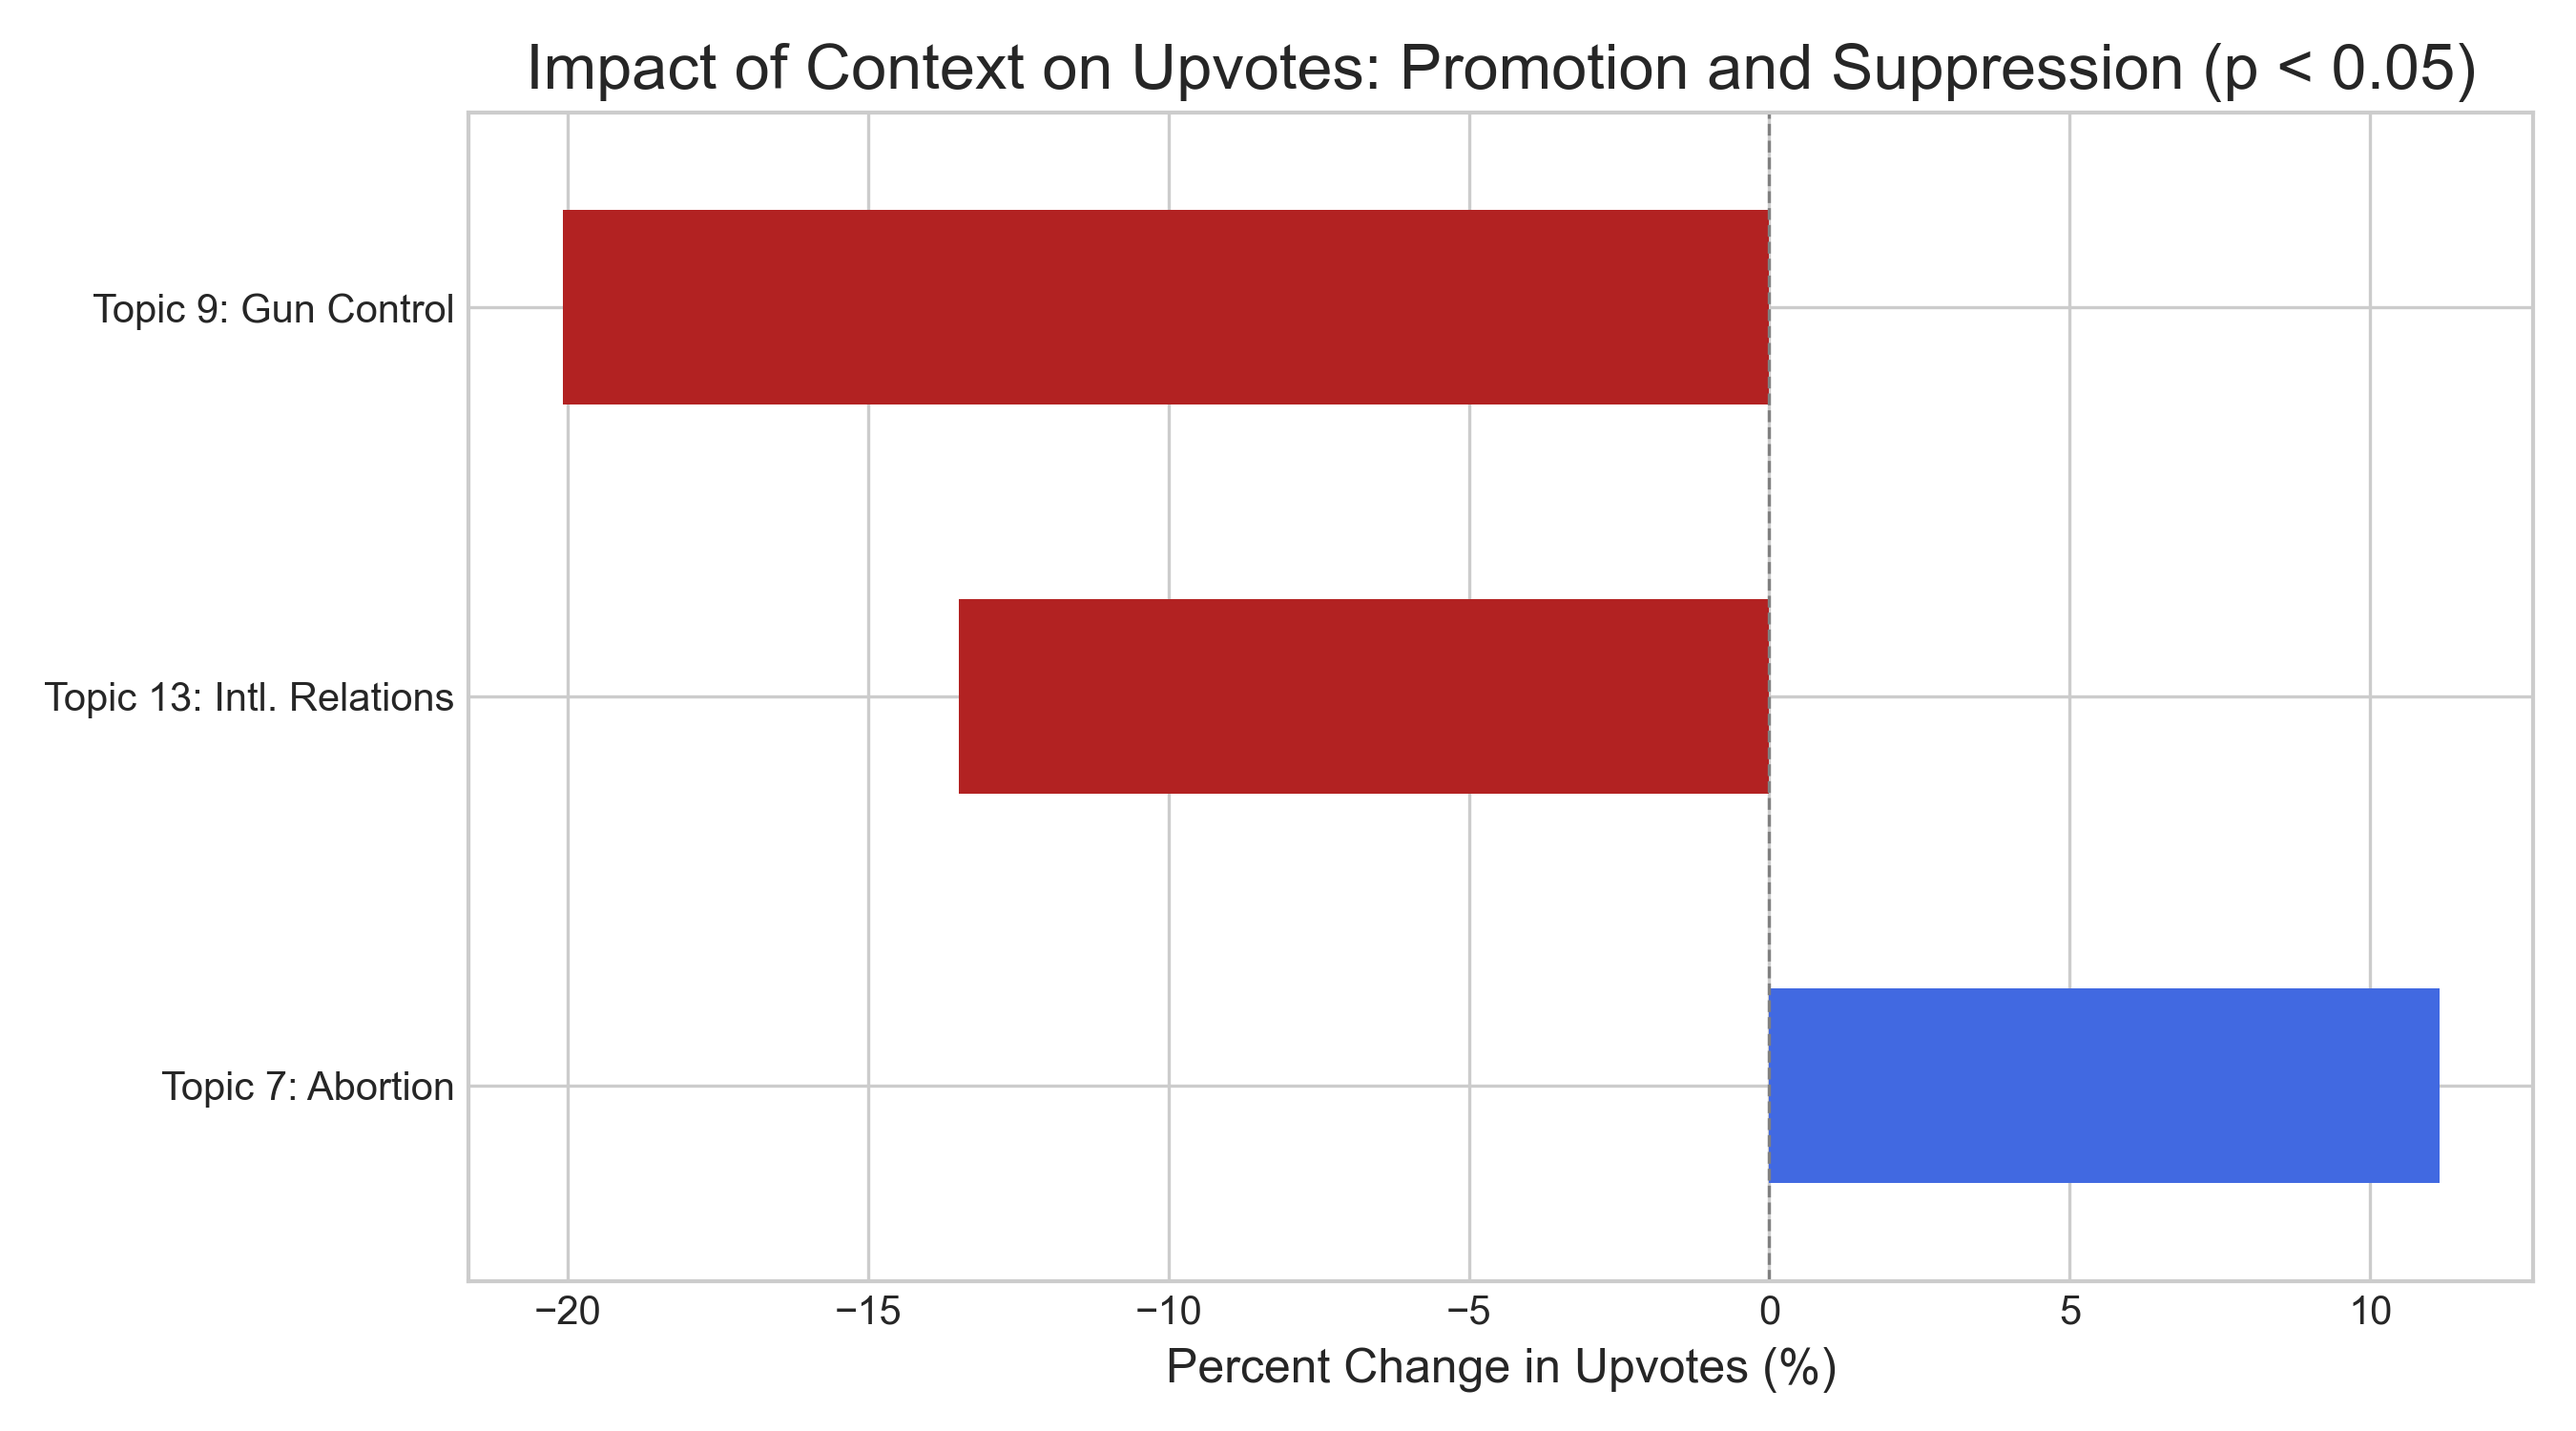
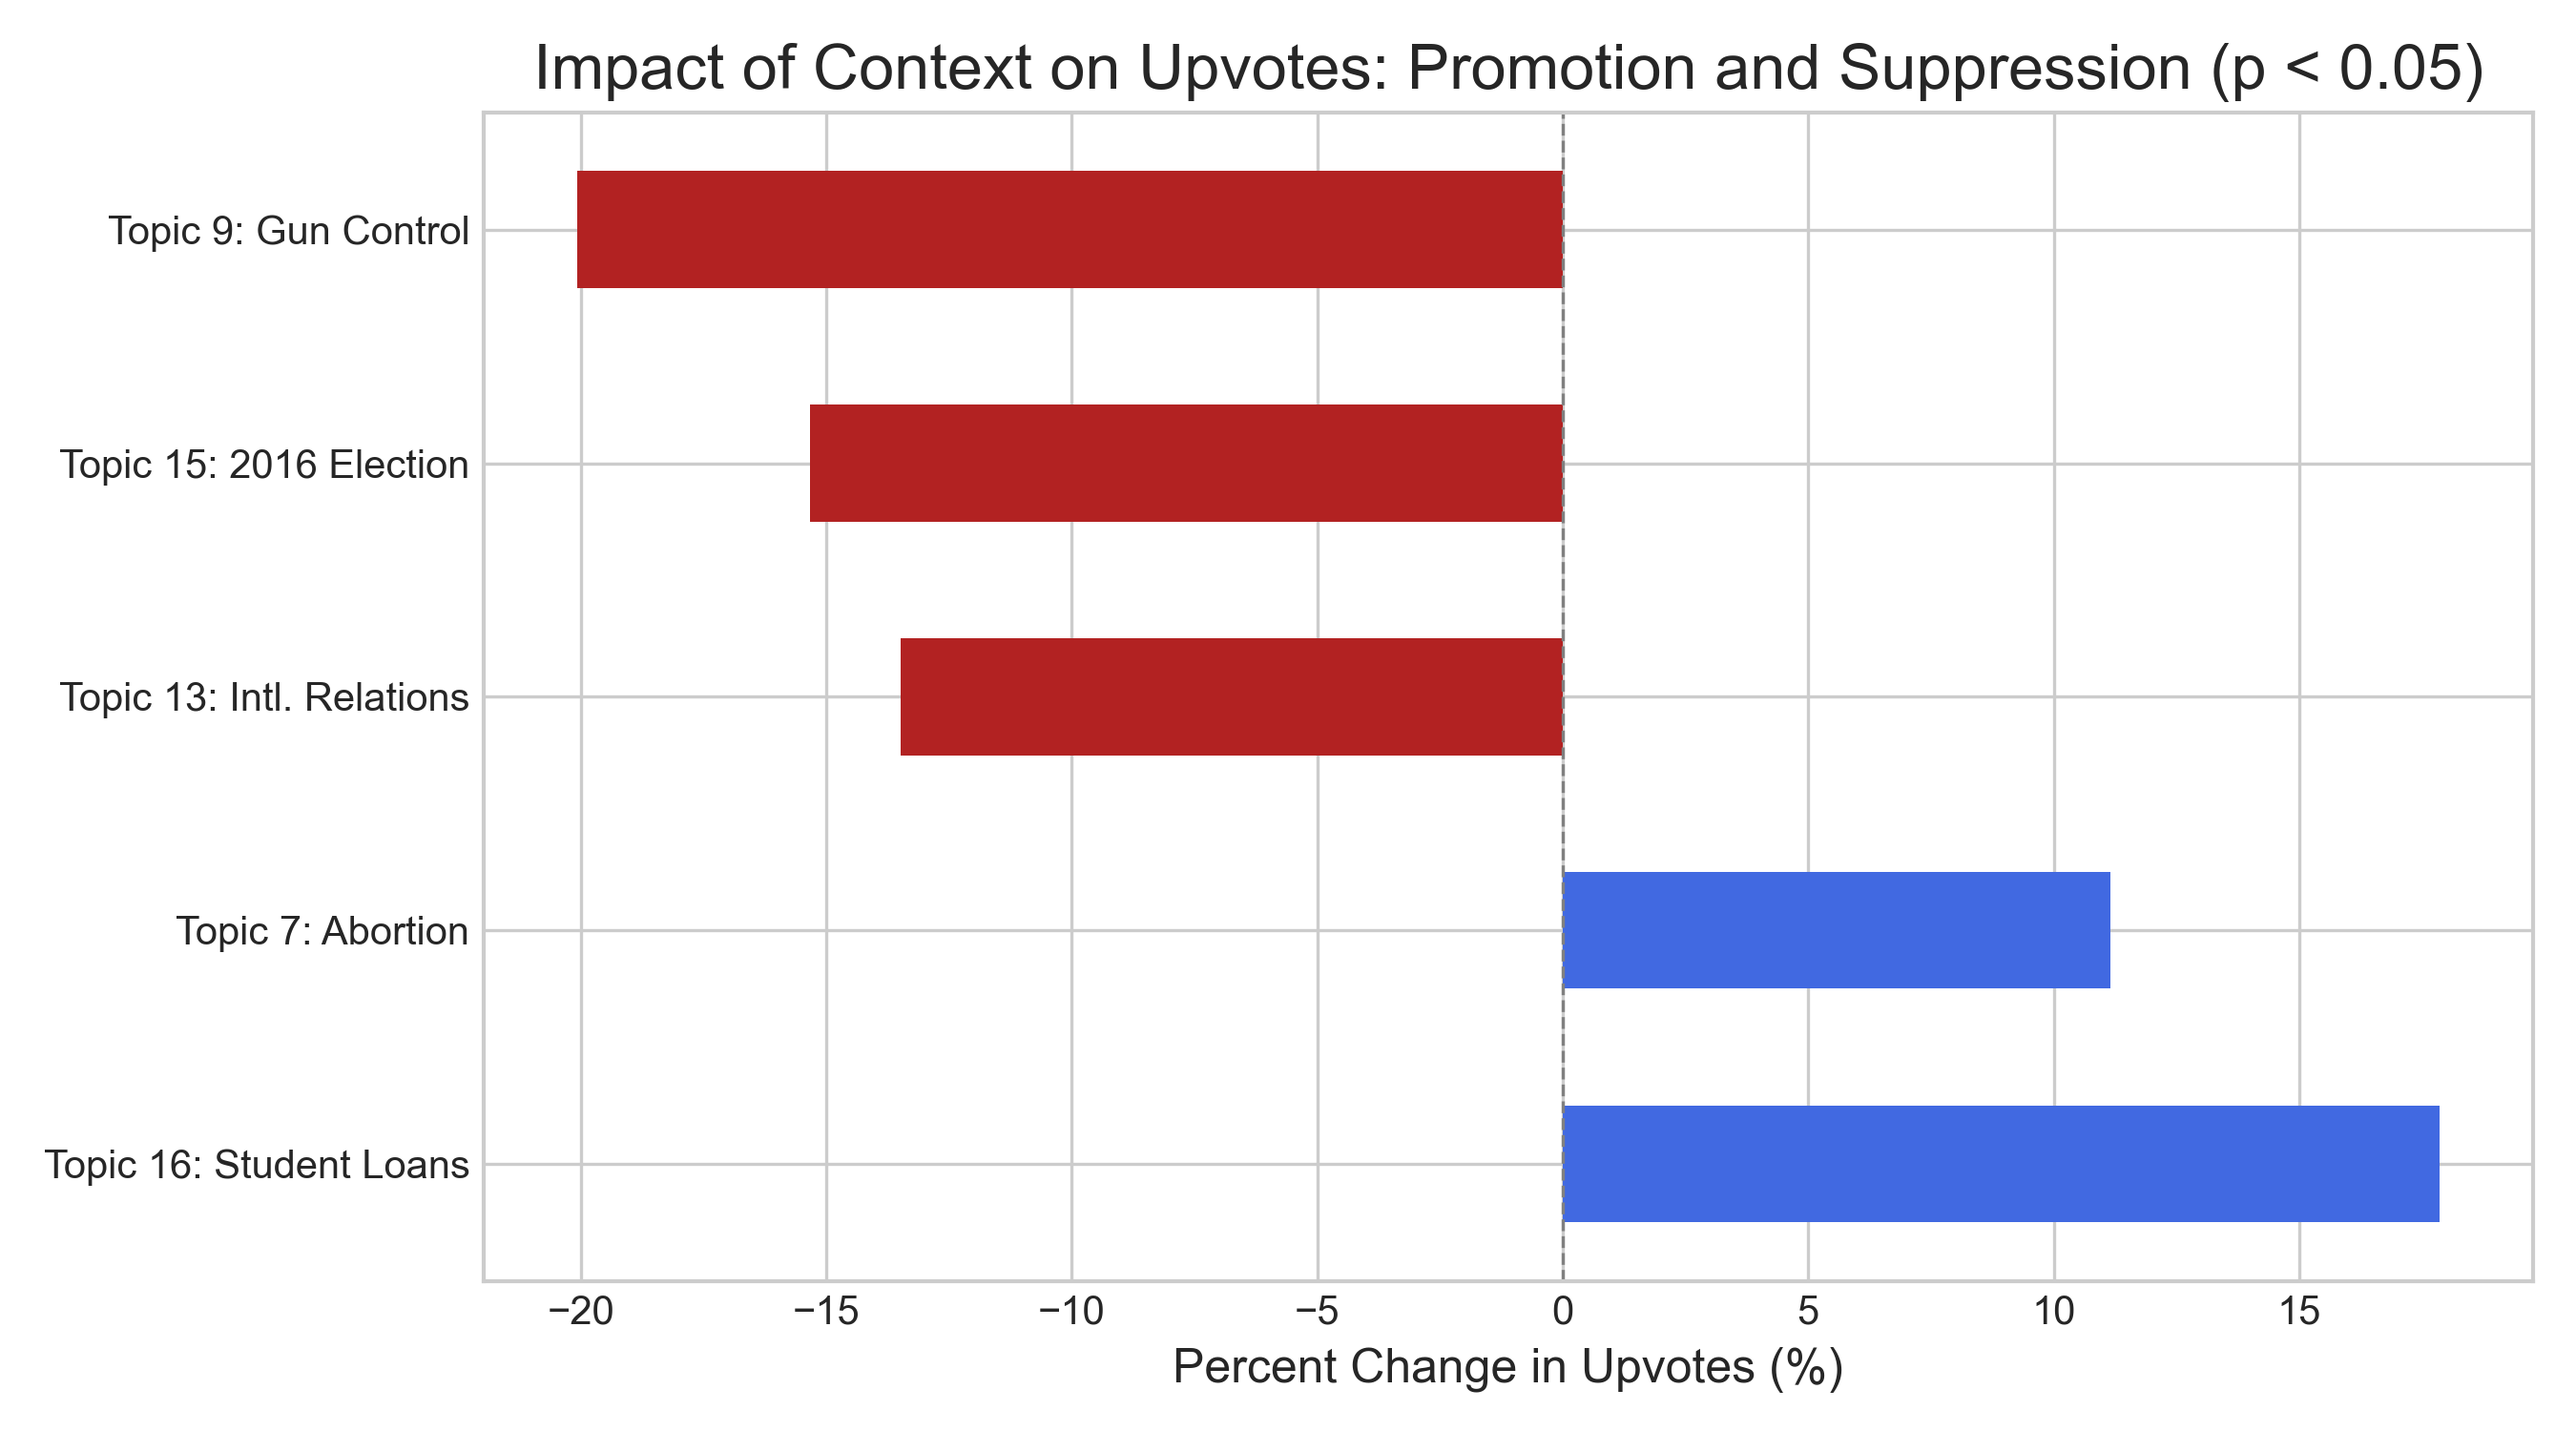
Add two topics in BERTopic analysis

diff --git a/scripts/02_BERTopic/02_03_BERTopic_visualization.py b/scripts/02_BERTopic/02_03_BERTopic_visualization.py
@@ -20,9 +20,9 @@ def convert_log_coef_to_percent_change(df_data, coef_col='Coefficient'):
 
 # Prapare the dataset for plotting
 data_for_plot = {
-    'Variable': ['vader_compound', 'Topic_7 (Abortion)', 'Topic_9 (Gun Control)', 'Topic_13 (International Relations)'],
-    'Coefficient': [5.8539, 0.1057, -0.2242, -0.1448], 
-    'Std.Err.': [0.018, 0.044, 0.048, 0.057] 
+    'Variable': ['vader_compound', 'Topic_7 (Abortion)', 'Topic_9 (Gun Control)', 'Topic_13 (International Relations)', "Topic_15(2016 Election)", "Topic_16(Student Loans)"],
+    'Coefficient': [5.8539, 0.1057, -0.2242, -0.1448, -0.1664, 0.1644], 
+    'Std.Err.': [0.018, 0.044, 0.048, 0.057 ,0.061, 0.067] 
 }
 df_plot = pd.DataFrame(data_for_plot).set_index('Variable')
 
@@ -44,21 +44,23 @@ data_for_graph = {
         'Topic 7: Abortion', 
         'Topic 9: Gun Control', 
         'Topic 13: Intl. Relations',
+        "Topic 15: 2016 Election",
+        "Topic 16: Student Loans"
     ],
-    'Percent_Change': [11.148838, -20.084471, -13.480469], 
-    'Effect': ['Promotion', 'Suppression', 'Suppression']
+    'Percent_Change': [11.148838, -20.084471, -13.480469, -15.329252, 17.868570], 
+    'Effect': ['Promotion', 'Suppression', 'Suppression', 'Suppression', 'Promotion']
 }
 df_plot_final = pd.DataFrame(data_for_graph).set_index('Topic')
 
-# Set colors based on effect
-colors = ['royalblue' if c > 0 else 'firebrick' for c in df_plot_final['Percent_Change']]
 
 # Sort by absolute value of impact (strongest impact at the top)
-df_plot_final['Abs_Percent_Change'] = df_plot_final['Percent_Change'].abs()
 df_plot_final = df_plot_final.sort_values(
-    by='Abs_Percent_Change', 
-    ascending=True 
+    by='Percent_Change', 
+    ascending=False
 ).copy()
+
+# Set colors based on effect
+colors = ['royalblue' if c > 0 else 'firebrick' for c in df_plot_final['Percent_Change']]
 
 # Create horizontal bar chart
 plt.style.use('seaborn-v0_8-whitegrid')
